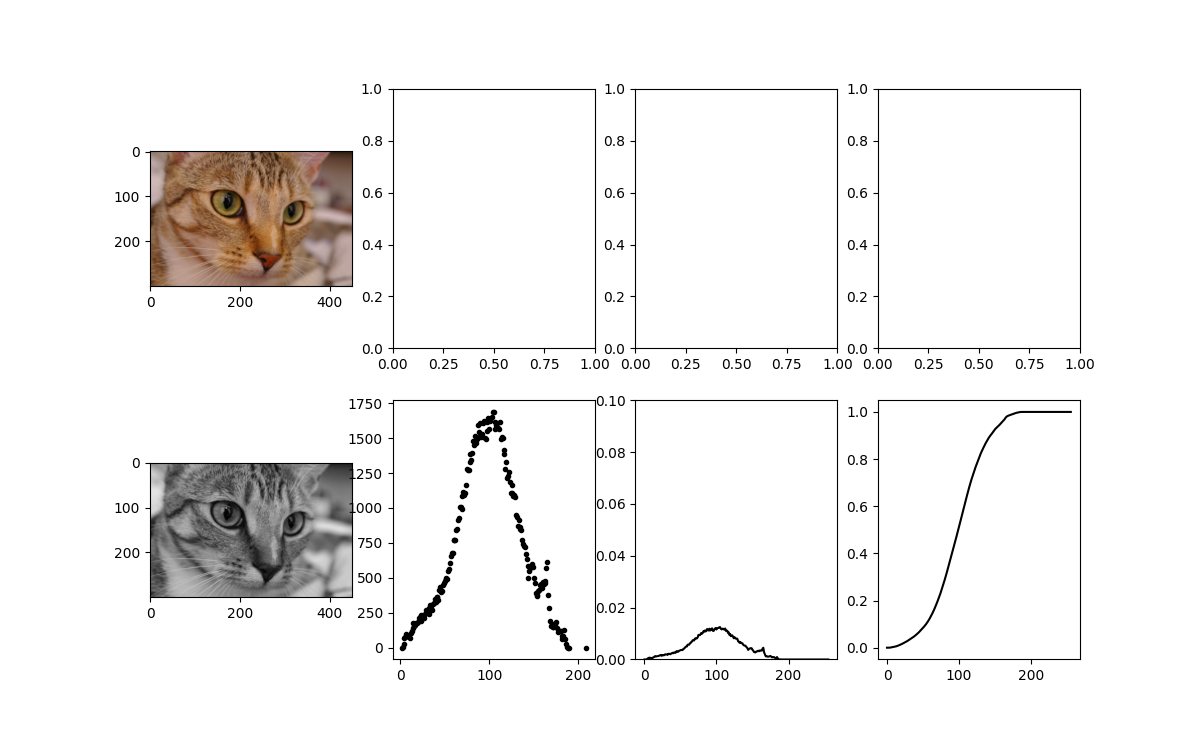
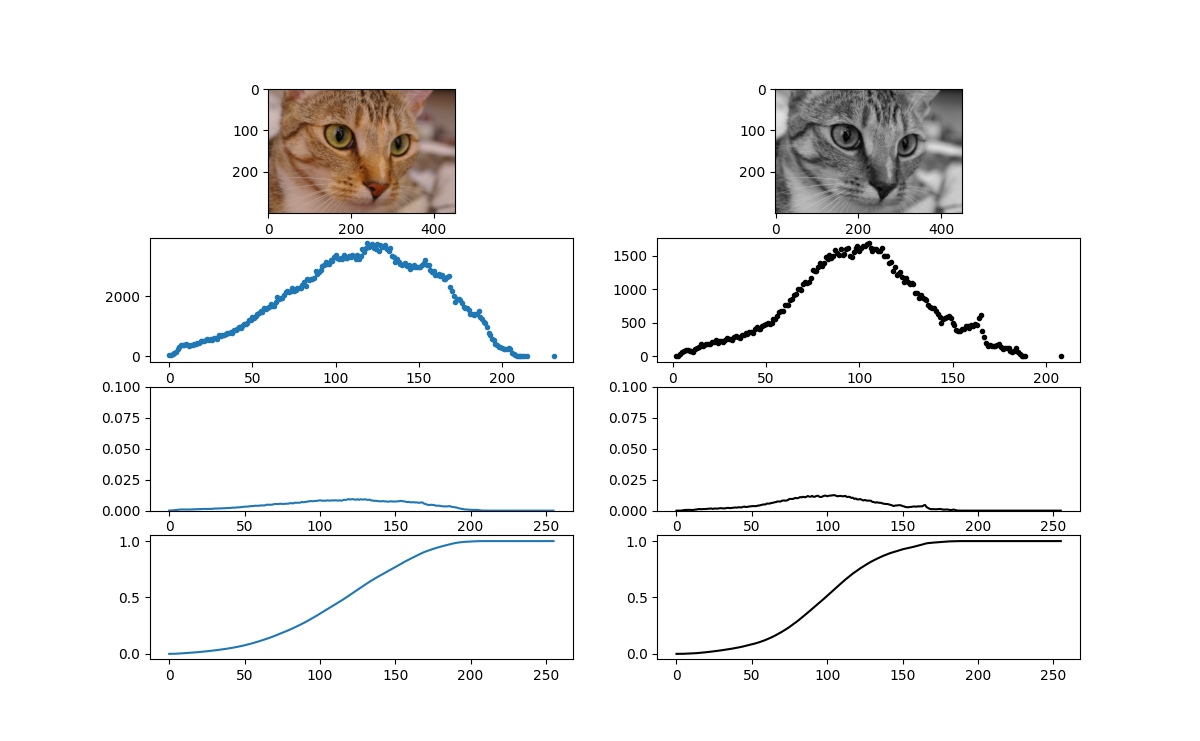
Lectore03 changed

diff --git a/wyklad03a.py b/wyklad03a.py
@@ -5,7 +5,7 @@ import matplotlib.pyplot as plt
 # Przestrzen na loty
 # fig, ax = plt.subplot(221)
     # 1.618 - zlota proporcja
-fig, ax = plt.subplots(2,4, figsize = (12,12/1.618)) 
+fig, ax = plt.subplots(4,2, figsize = (12,12/1.618)) 
 
 # Wczytujemy obraz
 D = 8
@@ -14,16 +14,28 @@ raw_image = chelsea()
 
 ax[0,0].imshow(raw_image)
 
+hist = np.unique(raw_image, return_counts=True)
+ax[1,0].scatter(*hist, marker = '.')
+
+vhist = np.zeros((L))
+vhist[hist[0]] = hist[1]
+vhist /= np.sum(vhist)
+
+ax[2,0].plot(vhist)
+ax[2,0].set_ylim(0,0.1)
+
+vdist = np.cumsum(vhist)
+ax[3,0].plot(vdist)
+
 # Przygotowanie transformacji monochromatycznym
 monochrome_transform = np.array([0,1,1])
 monochrome_transform = monochrome_transform / np.sum(monochrome_transform)
 
 # Dokonujemy transformacji
-print(raw_image.shape, monochrome_transform[None, None].shape)
 mono_image = raw_image * monochrome_transform
 mono_image = np.sum(mono_image, axis = 2).astype(np.uint8)
 
-ax[1,0].imshow(mono_image, cmap = 'binary_r')
+ax[0,1].imshow(mono_image, cmap = 'binary_r')
 
 # Przygotowanie histogramu
 # Najprostszy estymator gestosci elementow
@@ -37,12 +49,12 @@ vhist[hist[0]] = hist[1]
 vhist /= np.sum(vhist)      # bez tego wektor
 
 # Prezentacja
-ax[1,2].plot(vhist, c='black')
-ax[1,2].set_ylim(0,.1)      # 10%
+ax[2,1].plot(vhist, c='black')
+ax[2,1].set_ylim(0,.1)      # 10%
 
 # Dystrybuanta / krzywa intensywnosci
 vdist = np.cumsum(vhist)
-ax[1,3].plot(vdist, c='black')
+ax[3,1].plot(vdist, c='black')
 
 # Znalezenie punktu
 ''' 

diff --git a/wyklad03b.py b/wyklad03b.py
@@ -23,28 +23,32 @@ def monochrome(raw_image, monochrome_transform=[1,1,1]):
     return mono_image
 
 # Przygotowanie przestrzeni
-fig, ax = plt.subplots(4, 2, figsize=(12,12))
+fig, ax = plt.subplots(3, 2, figsize=(12,12))
 
 # Wczytywanie obrazu
 raw_image = monochrome(chelsea())
 ax[0,0].imshow(raw_image, cmap='binary_r')
 
-
-
 lut_base = np.arange(0,L)
-gamma = 1.5
+gamma = 2
 
 lut_gamma = np.linspace(255, 0, L).astype(np.uint8)
 lut_gamma = (((lut_base/(L-1)) ** (1/gamma)) * (L-1)).astype(np.uint8)
 
 ax[0,1].scatter(lut_base[::8], lut_base[::8], c='black', marker ='x')
+
 gamma_image = lut_gamma[raw_image]     # raw_image musi byc calkowito liczbowe INT
-
-
 ax[1,1].scatter(lut_base[::8], lut_gamma[::8], c='black', marker ='x')
 ax[1,0].imshow(gamma_image, cmap='binary_r')
 
+gamma = 0.4
 
+lut_gamma = np.linspace(255, 0, L).astype(np.uint8)
+lut_gamma = (((lut_base/(L-1)) ** (1/gamma)) * (L-1)).astype(np.uint8)
+
+gamma_image = lut_gamma[raw_image]     # raw_image musi byc calkowito liczbowe INT
+ax[2,1].scatter(lut_base[::8], lut_gamma[::8], c='black', marker ='x')
+ax[2,0].imshow(gamma_image, cmap='binary_r')
 
 # Zapis do pliku
 plt.savefig('wyklad03b.png')
